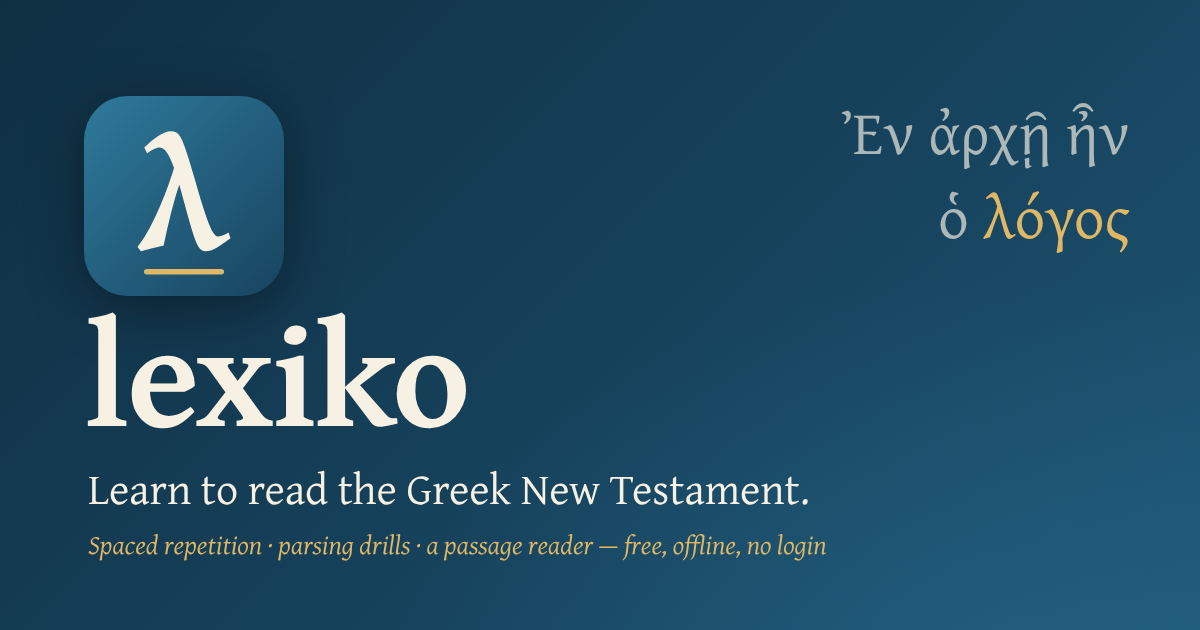
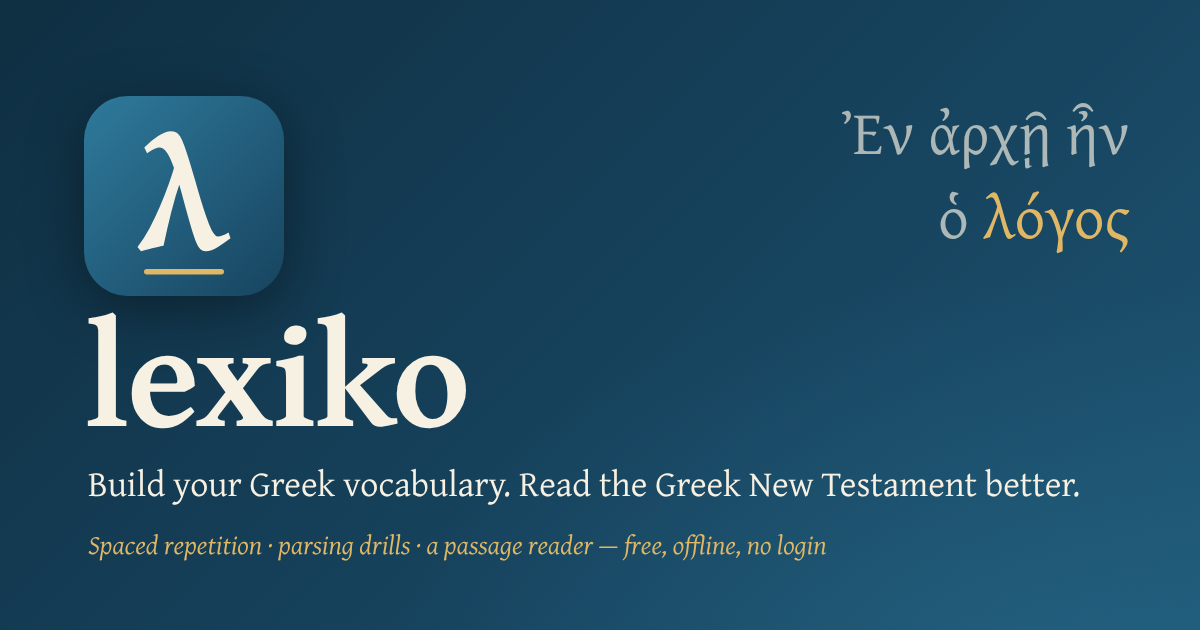
Simplifications.

Changed region(s): [[0.0617, 0.754, 0.8942, 0.8143]]

diff --git a/js/parse.js b/js/parse.js
@@ -3,7 +3,6 @@
 import { D, scopeVerses, scopeLabel, tokenPunct, tokenFlag, chapterVerses } from './data.js';
 import { K, status, setting, setSetting, parseId, parseCardsDue, parseNewToday, rateParse, getParseStats, saveParseStats, troubleCards, studiedCount } from './know.js';
 import { buildItem, groupForms, mergeForms, check, gradeOf, slotOrder, slotOK, OPTIONS, SLOT_TITLE, labelOf, describe } from './parse-model.js';
-import { breakdown } from './stem.js';
 import { h, clear, shuffle, pct, icon, fmtInterval, toast, practiceBanner, fold, startButton } from './util.js';
 import { chartsButton, openCharts, chartRowForSlots } from './charts.js';
 import { smart, TOPICS } from './smart.js';
@@ -146,9 +145,6 @@ function runSession(view, queue, { title, scope, restart, practice = false }) {
       ctx ? h('details.ctxfold', h('summary', 'See it in a verse'), ctx) : null);
   }
   const chartLink = (it, d) => (it.group === 'V' ? h('button.btn.sm', { onclick: () => openCharts({ highlight: chartRowForSlots(d.slots) }) }, icon('table', 18), 'Verb chart') : null);
-  const buildRow = (pieces, labels) => h('div.build', pieces.map((p) => h('span.bp.' + p.kind, h('b', { lang: 'grc' }, p.text), labels ? h('small', p.role) : null)));
-
-  const hintFor = (L, it, d) => { const b = breakdown(L.head, it.form.plain, d); return b.pieces.length > 1 ? 'Try splitting ' + it.form.plain + ' into ' + b.pieces.map((p) => p.text).join(' + ') + '. What does each part tell you?' : 'Look at the ending of ' + it.form.plain + ' first — it carries most of the information.'; };
 
   /* feedback shared by both modes */
   async function feedback(c, it, res, { ms, aided, mode }) {
@@ -164,8 +160,7 @@ function runSession(view, queue, { title, scope, restart, practice = false }) {
     }
     if (!res.full && first) queue.splice(Math.min(queue.length, 4), 0, { ...c, retry: true });
     const L = D.lexByN.get(it.strongs), best = res.best;
-    const bd = breakdown(L.head, it.form.plain, best.d), notes = bd.notes;
-    const others = it.valid.filter((v) => v !== best);
+        const others = it.valid.filter((v) => v !== best);
     const soft = Object.entries(res.perSlot).filter(([, v]) => v.soft);
     const head = res.full ? ['ok', 'Correct'] : res.wrong.length === 1 && res.total >= 3 ? ['mid', 'Almost — one part off'] : ['bad', 'Not quite'];
     const chips = Object.entries(res.perSlot).map(([k, v]) => h('span.pslot.' + (v.ok ? 'ok' : 'bad'), h('small', SLOT_TITLE[k]), v.ok ? labelOf(k, v.expected) : (v.user ? labelOf(k, v.user) + ' → ' : '') + labelOf(k, v.expected), v.ok ? ' ✓' : ''));
@@ -175,8 +170,6 @@ function runSession(view, queue, { title, scope, restart, practice = false }) {
       others.length ? h('div.small.muted', 'Also valid: ' + others.map((o) => describe(o) + ' (' + o.code + ')').join(' · ')) : null,
       h('div.pslots', chips),
       soft.length ? h('div.small.muted', 'Accepted: the Robinson–Pierpont code marks this as ' + labelOf('voice', best.slots.voice).toLowerCase() + ' — a middle/passive form that may be read either way.') : null,
-      bd.pieces.length ? h('div.buildbox', h('div.small.muted', 'How ' + it.form.plain + ' is built'), buildRow(bd.pieces, true)) : null,
-      notes.length ? h('details.why', { open: !res.full }, h('summary', 'About this form'), h('ul', notes.map((n) => h('li', n)))) : null,
       chartLink(it, best.d));
     const go = h('button.btn.primary.block', { onclick: advance }, queue.length ? 'Continue' : 'Finish');
     (view.querySelector('.qwrap') || view).append(fb, go);
@@ -205,7 +198,7 @@ function runSession(view, queue, { title, scope, restart, practice = false }) {
       clear(area).append(
         h('div.pslots', done.map((k) => h('span.pslot.' + (answers[k + '_ok'] ? 'ok' : 'bad'), h('small', SLOT_TITLE[k]), labelOf(k, answers[k]))), h('span.pslot.cur', SLOT_TITLE[slot] + '?')),
         h('div.pgrid', opts.map(([code, label], i) => h('button.popt', { dataset: { code }, onclick: (e) => pick(slot, code, e.currentTarget) }, h('kbd', i + 1), label))),
-        h('div.row.between', h('button.btn.ghost.sm', { onclick: () => { aided = true; hintBox.replaceChildren(h('div.hint', 'Hint: ' + hintFor(L, it, cands[0].d))); } }, 'Hint'),
+        h('div.row.between', h('button.btn.ghost.sm', { onclick: () => { aided = true; hintBox.replaceChildren(h('div.hint', 'Hint: look at the ending of ' + it.form.plain + ' first — it carries most of the information.')); } }, 'Hint'),
           h('button.btn.ghost.sm', { onclick: () => { gaveUp = true; cands[0].keys.forEach((k) => { if (!(k in answers)) answers[k] = undefined; }); end(); } }, 'I don’t know')), hintBox);
     };
     const pick = (slot, code, btn) => {

diff --git a/css/app.css b/css/app.css
@@ -212,7 +212,6 @@ dialog::backdrop { background: rgba(0, 0, 0, .45); }
 .fb { padding: .9rem 1rem; border-radius: var(--r); border: 1.5px solid var(--line); background: var(--surface); display: grid; gap: .55rem; }
 .fb.ok { border-color: var(--good); } .fb.mid { border-color: var(--warn); } .fb.bad { border-color: var(--bad); }
 .fb .parsed { font-weight: 700; font-size: 1.05rem; }
-.why summary { cursor: pointer; font-weight: 700; color: var(--accent); } .why ul { margin: .4rem 0 0 1.1rem; display: grid; gap: .35rem; font-size: .92rem; color: var(--ink-2); }
 .pbars { display: grid; gap: .45rem; margin-top: .5rem; }
 .pbar { display: grid; grid-template-columns: 5.5rem 1fr 3rem 2.5rem; align-items: center; gap: .5rem; font-size: .88rem; } .pbar small { color: var(--muted); }
 
@@ -230,7 +229,7 @@ pre.license { max-height: 60dvh; overflow: auto; margin: .6rem 0 0; padding: .7r
 .pp small { font-size: .68rem; font-weight: 800; letter-spacing: .05em; text-transform: uppercase; color: var(--muted); }
 .pp span { font-family: var(--greek); font-size: 1.1rem; font-weight: 600; } .pp.none span { color: var(--muted); }
 .pp.hi { outline: 2px solid var(--good); background: var(--good-soft); }
-dialog.charts { width: min(48rem, 96vw); max-height: 90dvh; overflow: auto; }
+dialog.charts { width: min(60rem, 96vw); max-width: 96vw; max-height: 90dvh; overflow: auto; }
 .cbody { display: grid; gap: .8rem; margin-top: .7rem; }
 .cscroll { overflow-x: auto; border: 1px solid var(--line); border-radius: 12px; }
 .ctable { border-collapse: collapse; width: 100%; font-size: .9rem; white-space: nowrap; }
@@ -242,6 +241,10 @@ dialog.charts { width: min(48rem, 96vw); max-height: 90dvh; overflow: auto; }
 .ctable tr.hi th, .ctable tr.hi td { background: var(--good-soft); }
 .clabel { font-size: .72rem; font-weight: 800; letter-spacing: .06em; text-transform: uppercase; color: var(--muted); margin: .5rem 0 .25rem; }
 
+@media (max-width: 1000px) {
+  .ctable { font-size: .82rem; white-space: normal; } .ctable th, .ctable td { padding: .35rem .45rem; }
+  .ctable thead th { white-space: normal; vertical-align: bottom; }
+}
 @media (max-width: 560px) {
   dialog.charts { padding: .8rem; }
   .ctable { font-size: .74rem; white-space: normal; } .ctable th, .ctable td { padding: .3rem .32rem; }
@@ -262,8 +265,5 @@ dialog.charts { width: min(48rem, 96vw); max-height: 90dvh; overflow: auto; }
 /* verb quiz: one asked form, verse tucked away, breakdown of the form */
 .qask { font-size: .72rem; text-transform: uppercase; letter-spacing: .08em; font-weight: 800; color: var(--muted); }
 .ctxfold { margin-top: .6rem; width: 100%; max-width: 34rem; text-align: left; } .ctxfold summary { cursor: pointer; font-size: .85rem; color: var(--accent); font-weight: 700; text-align: center; }
-.buildbox { margin-top: .6rem; display: grid; gap: .35rem; justify-items: center; }
-.build { display: flex; flex-wrap: wrap; gap: .3rem; justify-content: center; align-items: flex-start; }
-.bp { display: inline-flex; flex-direction: column; align-items: center; padding: .3rem .6rem; border-radius: 10px; background: var(--surface-2); min-width: 2.6rem; }
-.bp b { font-family: var(--greek); font-size: 1.35rem; } .bp small { font-size: .66rem; text-transform: uppercase; letter-spacing: .04em; color: var(--muted); font-weight: 700; text-align: center; max-width: 7rem; }
-.bp.aug, .bp.prefix { background: var(--gold-soft); } .bp.mark { background: var(--accent-soft); } .bp.end { background: var(--good-soft); }
+
+.cardparts { margin-top: .8rem; text-align: left; width: 100%; max-width: 34rem; display: grid; gap: .3rem; } .cardparts .partsgrid { grid-template-columns: repeat(auto-fit, minmax(8.5rem, 1fr)); }

diff --git a/js/reader.js b/js/reader.js
@@ -1,4 +1,4 @@
-// The reader: Greek text with tap/hover word popups, optional glosses for unknown words, readiness per chapter.
+// The reader: Greek text with tap/click word popups, optional glosses for unknown words, readiness per chapter.
 import { D, tokenForm, tokenPunct, tokenFlag, chapterVerses, lexeme, scopeLabel, periScope, periRange } from './data.js';
 import { decode } from './morph.js';
 import { K, status, setting, setSetting, markKnown, markLearning, scopeReadiness, readinessLabel, readinessClass, markRead, setReadKey } from './know.js';
@@ -68,7 +68,7 @@ function showPop(el, pinned, rerender) {
   if (popAnchor && popAnchor !== el) popAnchor.classList.remove('sel');
   popAnchor = el; popPinned = pinned; el.classList.add('sel');
   clear(pop);
-  pop.append(h('button.btn.ghost.icon.sm.x', { 'aria-label': 'Close', onclick: hidePop }, icon('close', 18)), popupBody(+el.dataset.t, { onStatus: () => { rerender(); } }));
+  pop.append(h('button.btn.ghost.icon.sm.x', { 'aria-label': 'Close', onclick: hidePop }, icon('close', 18)), popupBody(+el.dataset.t, { onStatus: () => { hidePop(); rerender(); } }));
   pop.hidden = false;
   if (matchMedia('(min-width: 700px)').matches) {
     const r = el.getBoundingClientRect(), pw = pop.offsetWidth, ph = pop.offsetHeight;
@@ -193,16 +193,10 @@ export function renderReader(view, params) {
     const act = e.target.closest && e.target.closest('[data-act="pread"]');
     if (act) { const id = act.dataset.pid, on = !K.read[id]; await setReadKey(id, on); toast(on ? 'Section marked as read' : 'Unmarked'); return redraw(); }
     const w = wordOf(e); if (w) { e.preventDefault(); showPop(w, true, redraw); } };
-  const over = (e) => {
-    if (e.pointerType !== 'mouse' || popPinned) return;
-    const w = wordOf(e); if (!w || w === popAnchor) return;
-    clearTimeout(hideTimer); hideTimer = setTimeout(() => showPop(w, false, redraw), 220);
-  };
-  const out = (e) => { if (e.pointerType === 'mouse' && wordOf(e) && !popPinned) { clearTimeout(hideTimer); scheduleHide(); } };
   const redraw = () => { const y = scrollY; draw(); scrollTo(0, y); if (popAnchor) { const el = body.querySelector('.w[data-t="' + popAnchor.dataset.t + '"]'); if (el) showPop(el, true, redraw); } };
   const outside = (e) => { if (pop && !pop.hidden && popPinned && !pop.contains(e.target) && !wordOf(e)) hidePop(); };
   const esc_ = (e) => { if (e.key === 'Escape') hidePop(); };
-  body.addEventListener('click', click); body.addEventListener('pointerover', over); body.addEventListener('pointerout', out);
+  body.addEventListener('click', click);
   document.addEventListener('pointerdown', outside); document.addEventListener('keydown', esc_);
 
   if (vsS) { const v = body.querySelector('#v' + (+vsS)); if (v) { v.classList.add('focus'); requestAnimationFrame(() => v.scrollIntoView({ block: 'center' })); } } else scrollTo(0, 0);

diff --git a/index.html b/index.html
@@ -3,8 +3,8 @@
 <head>
 <meta charset="utf-8">
 <meta name="viewport" content="width=device-width, initial-scale=1, viewport-fit=cover">
-<title>lexiko — learn to read the Greek New Testament</title>
-<meta name="description" content="lexiko is a free, offline-first app for learning to read the Greek New Testament: spaced-repetition vocabulary, a tap-for-parsing reader, and passage readiness tracking. No login.">
+<title>lexiko — build your Greek vocabulary and read the Greek New Testament better</title>
+<meta name="description" content="lexiko is a free, offline-first app to build your Greek vocabulary and read the Greek New Testament better: spaced-repetition vocabulary, a tap-for-parsing reader, and passage readiness tracking. No login.">
 <meta name="color-scheme" content="light dark">
 <meta name="theme-color" content="#f6f2ea" media="(prefers-color-scheme: light)">
 <meta name="theme-color" content="#12161b" media="(prefers-color-scheme: dark)">
@@ -20,15 +20,15 @@
 
 <meta property="og:type" content="website">
 <meta property="og:site_name" content="lexiko">
-<meta property="og:title" content="lexiko — learn to read the Greek New Testament">
+<meta property="og:title" content="lexiko — build your Greek vocabulary and read the Greek New Testament better">
 <meta property="og:description" content="Spaced repetition, parsing drills and a passage reader. Free, works offline, no login.">
 <meta property="og:url" content="https://lexiko.org/">
 <meta property="og:image" content="https://lexiko.org/icons/og-image.png">
 <meta property="og:image:width" content="1200">
 <meta property="og:image:height" content="630">
-<meta property="og:image:alt" content="lexiko — a gold-underlined lambda icon, with the words 'Learn to read the Greek New Testament.'">
+<meta property="og:image:alt" content="lexiko — a gold-underlined lambda icon, with the words 'Build your Greek vocabulary. Read the Greek New Testament better.'">
 <meta name="twitter:card" content="summary_large_image">
-<meta name="twitter:title" content="lexiko — learn to read the Greek New Testament">
+<meta name="twitter:title" content="lexiko — build your Greek vocabulary and read the Greek New Testament better">
 <meta name="twitter:description" content="Spaced repetition, parsing drills and a passage reader. Free, works offline, no login.">
 <meta name="twitter:image" content="https://lexiko.org/icons/og-image.png">
 

diff --git a/js/parts.js b/js/parts.js
@@ -7,7 +7,6 @@ import { D, lexeme, scopeCounts, scopeLabel } from './data.js';
 import { K, status, setting, setSetting, partsId, partsCardsDue, partsNewToday, rateParts, getPartsStats, savePartsStats, troubleCards, studiedCount } from './know.js';
 import * as F from './fsrs.js';
 import { decode } from './morph.js';
-import { explain } from './stem.js';
 import { h, clear, shuffle, pct, icon, fmtInterval, toast, practiceBanner, fold, startButton } from './util.js';
 import { smart, TOPICS } from './smart.js';
 import { passagePicker } from './learn.js';
@@ -105,14 +104,6 @@ export function verbOptions(entry) {
   return shuffle([entry, ...shuffle(scored).slice(0, 3)]);
 }
 
-function notesFor(entry, slot) {
-  const form = entry.parts[slot]; if (!form) return [];
-  const mid = slot <= 1 ? /μαι$/.test(skel(form)) : slot === 2 ? /μην$/.test(skel(form)) : false;
-  let code = ['V-PAI-1S', 'V-FAI-1S', 'V-AAI-1S', 'V-RAI-1S', 'V-RPI-1S', 'V-API-1S'][slot];
-  if (mid) code = code.replace(/^(V-.)A/, '$1M');
-  try { return explain(lexeme(entry.n).head, form, decode(code)); } catch { return []; }
-}
-
 /* ---------- session ---------- */
 let keyHandler = null;
 const stop = () => { if (keyHandler) { document.removeEventListener('keydown', keyHandler); keyHandler = null; } };
@@ -166,11 +157,10 @@ function runSession(view, queue, { scope, restart, practice }) {
 
   /* the verb with all its parts, the tested one marked, and why it looks that way */
   function verbPanel(entry, slot) {
-    const L = lexeme(entry.n), notes = notesFor(entry, slot);
+    const L = lexeme(entry.n);
     return h('div.fb.ok',
       h('div.row.between', h('b', { lang: 'grc' }, entry.lemma), h('span.small.muted', L.short || L.brief)),
-      h('div.partsgrid', SLOT_NAMES.map((name, i) => h('div.pp' + (i === slot ? '.hi' : '') + (entry.parts[i] ? '' : '.none'), h('small', name), h('span', { lang: 'grc' }, entry.parts[i] || '—')))),
-      notes.length ? h('details.why', { open: false }, h('summary', 'Why it looks like this'), h('ul', notes.map((n) => h('li', n)))) : null);
+      h('div.partsgrid', SLOT_NAMES.map((name, i) => h('div.pp' + (i === slot ? '.hi' : '') + (entry.parts[i] ? '' : '.none'), h('small', name), h('span', { lang: 'grc' }, entry.parts[i] || '—')))));
   }
 
   const setKeys = (enter) => {

diff --git a/js/learn.js b/js/learn.js
@@ -7,6 +7,15 @@ import { h, clear, shuffle, fmtInterval, pct, icon, toAcute, practiceBanner, fol
 import { smart, smartAll, TOPICS, topicNote } from './smart.js';
 import { readHref } from './reader.js';
 
+/** A verb's principal parts as a small grid, shown with the answer (only when the verb has parts beyond the present). */
+const PART_NAMES = ['Present', 'Future', 'Aorist active', 'Perfect active', 'Perfect mid/pas', 'Aorist passive'];
+function partsBlock(L) {
+  const e = L.pos === 'V' ? D.parts.get(L.n) : null;
+  if (!e || !e.parts.slice(1).some(Boolean)) return null;
+  return h('div.cardparts', h('div.small.muted', 'Principal parts'),
+    h('div.partsgrid', PART_NAMES.map((name, i) => h('div.pp' + (e.parts[i] ? '' : '.none'), h('small', name), h('span', { lang: 'grc' }, e.parts[i] || '—')))));
+}
+
 const fmt = (n) => n.toLocaleString('en-US');
 const POSNAME = { N: 'noun', V: 'verb', A: 'adjective', T: 'article', P: 'pronoun', R: 'pronoun', D: 'pronoun', X: 'pronoun', I: 'pronoun', F: 'pronoun', S: 'pronoun', C: 'pronoun', K: 'pronoun', Q: 'pronoun', ADV: 'adverb', CONJ: 'conjunction', PREP: 'preposition', PRT: 'particle', COND: 'conditional', INJ: 'interjection', HEB: 'Hebrew', ARAM: 'Aramaic' };
 
@@ -100,7 +109,7 @@ function runSession(view, items, { title, scope, back, practice = false }) {
     const reveal = (extra) => {
       const card = getCard(item.n) || F.newCard('w:' + item.n);
       const pv = F.preview(card, Date.now(), setting('retention'));
-      const answer = [h('div.qgloss', L.brief), L.full ? h('div.qdef', L.full) : null, contextFor(L.n, scope)];
+      const answer = [h('div.qgloss', L.brief), L.full ? h('div.qdef', L.full) : null, partsBlock(L), contextFor(L.n, scope)];
       const grades = h('div.grades' + (practice ? '.two' : ''),
         (practice ? [[1, 'Again'], [3, 'Got it']] : [[1, 'Again'], [2, 'Hard'], [3, 'Good'], [4, 'Easy']]).map(([g, name]) => h('button.g' + g, { onclick: () => grade(item, g) }, name, practice ? null : h('small', fmtInterval(pv[g])))));
       return { answer, grades };

diff --git a/js/settings.js b/js/settings.js
@@ -105,6 +105,9 @@ export function renderSettings(view) {
     h('div.card.stack', h('h2', 'Your data'), persistLine,
       h('div.row.wrap', h('button.btn', { onclick: () => refreshPersist(true) }, 'Protect my data'),
         h('button.btn.primary', { onclick: doBackup }, icon('download', 18), 'Back up progress'), h('button.btn', { onclick: () => fileIn.click() }, icon('upload', 18), 'Restore…'), fileIn),
+      h('p.muted.small', { id: 'bk-where' }, ios ? 'On iPhone/iPad: tap Back up progress, then choose “Save to Files” in the menu that appears, and pick a folder in iCloud Drive (a folder named lexiko works well). To restore later, tap Restore… and choose that file. Backup names start with “lex” and end with the date, so the newest is easy to find.'
+        : /Android/.test(navigator.userAgent) ? 'On Android: tap Back up progress, then choose where to save it (for example Drive or Files). To restore later, tap Restore… and choose that file. Backup names start with “lex” and end with the date.'
+        : 'On a computer the backup is saved to your Downloads folder. Copy it somewhere safe (a cloud drive or a USB stick). To restore later, click Restore… and choose that file. Backup names start with “lex” and end with the date.'),
       h('div.muted.small', { id: 'bk-last' }, lastBackup ? 'Last backup: ' + new Date(lastBackup).toLocaleString() : 'No backup yet. Your progress lives only on this device — back it up now and then.'),
       h('div.muted.small', store.usingMemory ? '⚠ This browser is blocking storage, so progress will be lost when you close the page.' : 'Stored in this browser (IndexedDB). No account, no server.')),
     h('div.card.stack', h('h2', 'Install'), installBtn,

diff --git a/tools/render_icons.js b/tools/render_icons.js
@@ -31,12 +31,12 @@ const fontUrl = 'file://' + path.join(root, 'fonts');
    background:radial-gradient(900px 600px at 85% 110%,#2f7a9c55,transparent 70%),linear-gradient(135deg,#0f2f42,#17445f 60%,#1d5573)}
   .ico{position:absolute;left:84px;top:96px}.ico svg{width:200px;height:200px;filter:drop-shadow(0 12px 28px #0006)}
   h1{position:absolute;left:84px;top:300px;margin:0;font-size:150px;line-height:1;font-weight:700;letter-spacing:-2px}
-  .tag{position:absolute;left:88px;top:462px;font-size:44px;font-weight:400;color:#f7f1e3}
+  .tag{position:absolute;left:88px;top:462px;font-size:36px;font-weight:400;color:#f7f1e3}
   .sub{position:absolute;left:88px;top:528px;font-size:27px;font-style:italic;color:#e0b765}
   .gk{position:absolute;right:70px;top:92px;font-size:62px;color:#f7f1e3aa;text-align:right;line-height:1.35}
   .gk b{color:#e0b765;font-weight:400}
   </style><body><div class=ico>${svg('icons/icon-any.svg')}</div><h1>lexiko</h1>
-  <div class=tag>Learn to read the Greek New Testament.</div>
+  <div class=tag>Build your Greek vocabulary. Read the Greek New Testament better.</div>
   <div class=sub>Spaced repetition · parsing drills · a passage reader — free, offline, no login</div>
   <div class=gk>Ἐν ἀρχῇ ἦν<br>ὁ <b>λόγος</b></div></body>`;
   await png('icons/og-image.png', 1200, 630, og);

diff --git a/tools/test_smoke.js b/tools/test_smoke.js
@@ -11,7 +11,7 @@ const ok = (c, m) => { console.log((c ? '  ok  ' : ' FAIL ') + m); if (!c) fails
   const page = await ctx.newPage();
   const errors = []; page.on('pageerror', (e) => errors.push('pageerror: ' + e.message)); page.on('console', (m) => { if (m.type() === 'error') errors.push('console: ' + m.text()); });
   await page.goto(URL); await page.waitForSelector('#loading', { state: 'detached', timeout: 20000 });
-  ok(await page.title() === 'lexiko — learn to read the Greek New Testament', 'title');
+  ok(await page.title() === 'lexiko — build your Greek vocabulary and read the Greek New Testament better', 'title');
   ok(/Where are you starting/.test(await page.textContent('#view')), 'home shows level onboarding');
   await page.screenshot({ path: out + '/01-home-light.png' });
 

diff --git a/js/home.js b/js/home.js
@@ -19,7 +19,7 @@ export function renderHome(view) {
   const needsBackup = studied >= 15 && (!lastBackup || Date.now() - lastBackup > 14 * DAY);
 
   const stack = h('div.stack');
-  stack.append(h('div', h('h1', { style: { fontSize: '2rem' } }, h('span', { style: { color: 'var(--accent)' } }, 'λ'), 'exiko'), h('div.muted', 'Learn to read the Greek New Testament.')));
+  stack.append(h('div', h('h1', { style: { fontSize: '2rem' } }, h('span', { style: { color: 'var(--accent)' } }, 'λ'), 'exiko'), h('div.muted', 'Build your Greek vocabulary. Read the Greek New Testament better.')));
 
   if (lvl == null && !K.settings.levelAsked) {
     stack.append(h('div.card.stack', h('h2', 'Where are you starting?'),

diff --git a/README.md b/README.md
@@ -1,6 +1,6 @@
 # lexiko
 
-Learn to read the Greek New Testament. A free, offline-first Progressive Web App: no login, no server, hosted as static files on GitHub Pages.
+Build your Greek vocabulary. Read the Greek New Testament better. A free, offline-first Progressive Web App: no login, no server, hosted as static files on GitHub Pages.
 
 **Status: phases 1–2.** Reader, vocabulary SRS (FSRS), levels, passage readiness, goals, backup/restore, PWA shell.
 **Planned:** more reference charts (participles, non-indicative moods).
@@ -42,7 +42,7 @@ Users get new versions automatically: the service worker notices a changed `sw-a
 Vocabulary, parsing and principal parts each have *Reinforce* (your shakiest cards) and *Preview new* (a few cards you haven't started). Neither ever writes a card, counter or statistic, so the spaced schedule is untouched. Quiz screens have a **Charts** button (`js/charts.js`): the master verb chart and primary/secondary endings, as tables; after an answer the row that builds the part is highlighted.
 
 ## Parsing practice
-`#/parse` quizzes the parts of a form in a fixed order (verbs: tense → voice → mood → person → number; infinitives stop after mood; participles continue with case → number → gender; other words: case → number → gender). Every parsing listed for the form under the same lexeme is accepted, each part is scored separately, and every form has its own FSRS card (`f:<form>:<strongs>`). *Guided* asks one part at a time with instant feedback and a hint; *Quick* shows all parts at once; *Auto* starts guided and switches (per verbs / other words) once you're ≥85 % reliable over 20 forms, and back below 60 %. After each answer, `js/stem.js` explains the form (augment, reduplication, tense markers, stem changes, endings). Code: `js/parse-model.js` (slots, matching, grading), `js/stem.js` (explanations), `js/parse.js` (UI). `node tools/test_stem.mjs [form…]` checks them against the whole text.
+`#/parse` quizzes the parts of a form in a fixed order (verbs: tense → voice → mood → person → number; infinitives stop after mood; participles continue with case → number → gender; other words: case → number → gender). Every parsing listed for the form under the same lexeme is accepted, each part is scored separately, and every form has its own FSRS card (`f:<form>:<strongs>`). *Guided* asks one part at a time with instant feedback and a hint; *Quick* shows all parts at once; *Auto* starts guided and switches (per verbs / other words) once you're ≥85 % reliable over 20 forms, and back below 60 %. Code: `js/parse-model.js` (slots, matching, grading), `js/parse.js` (UI). `node tools/test_stem.mjs [form…]` checks them against the whole text.
 
 ## Sources and licences
 * **Greek text:** Robinson–Pierpont Byzantine Textform (CCAT Beta Code with Strong's and RP morphology codes) — the 2026 edition, released into the **public domain on 16 Aug 2026**, so the full text is published here (`sources/rp/`).
